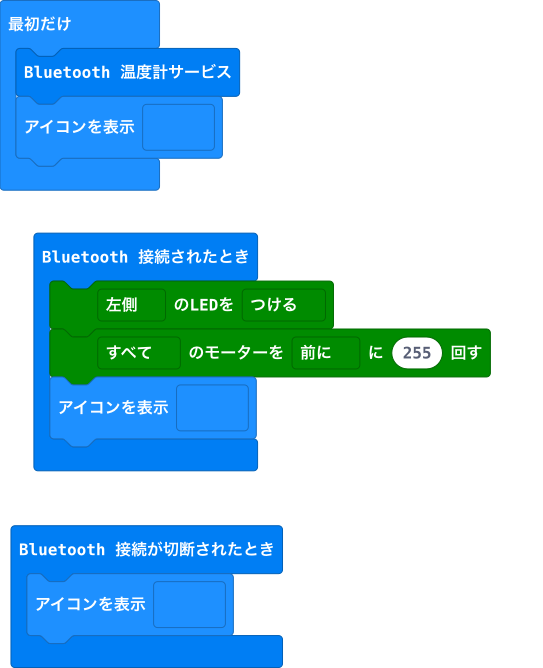
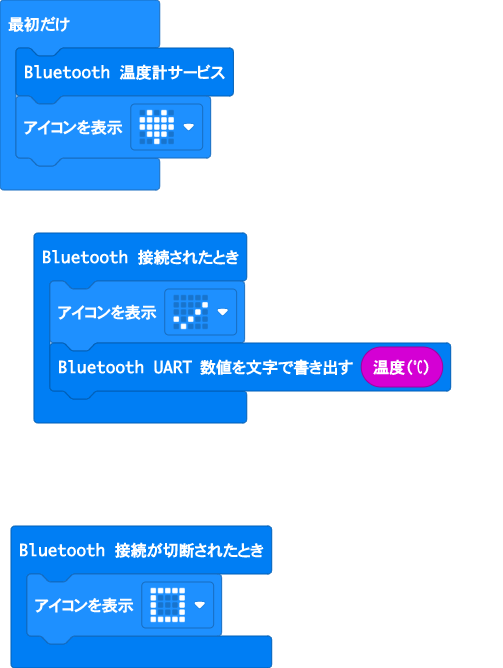
通信できた

Changed region(s): [[0.0596, 0.3293, 0.9245, 0.7186], [0.0, 0.7784, 0.5666, 1.0], [0.0, 0.0, 0.4771, 0.2994]]

diff --git a/main.ts b/main.ts
@@ -1,7 +1,6 @@
 bluetooth.onBluetoothConnected(function () {
-    maqueen.writeLED(maqueen.LED.LEDLeft, maqueen.LEDswitch.turnOn)
-    maqueen.motorRun(maqueen.Motors.All, maqueen.Dir.CW, 255)
     basic.showIcon(IconNames.Yes)
+    bluetooth.uartWriteNumber(input.temperature())
 })
 bluetooth.onBluetoothDisconnected(function () {
     basic.showIcon(IconNames.Square)

diff --git a/main.py b/main.py
@@ -1,13 +1,9 @@
-basic.show_leds("""
-    # . # # #
-    . . . . .
-    . # . . .
-    . . . . #
-    . . . # .
-    """)
+def on_bluetooth_connected():
+    basic.show_icon(IconNames.YES)
+bluetooth.on_bluetooth_connected(on_bluetooth_connected)
 
-def on_forever():
-    control.raise_event(input.rotation(Rotation.PITCH),
-        EventBusValue.MICROBIT_EVT_ANY)
-    basic.show_string("Hello!")
-basic.forever(on_forever)
+def on_bluetooth_disconnected():
+    basic.show_icon(IconNames.NO)
+bluetooth.on_bluetooth_disconnected(on_bluetooth_disconnected)
+
+basic.show_icon(IconNames.HEART)
